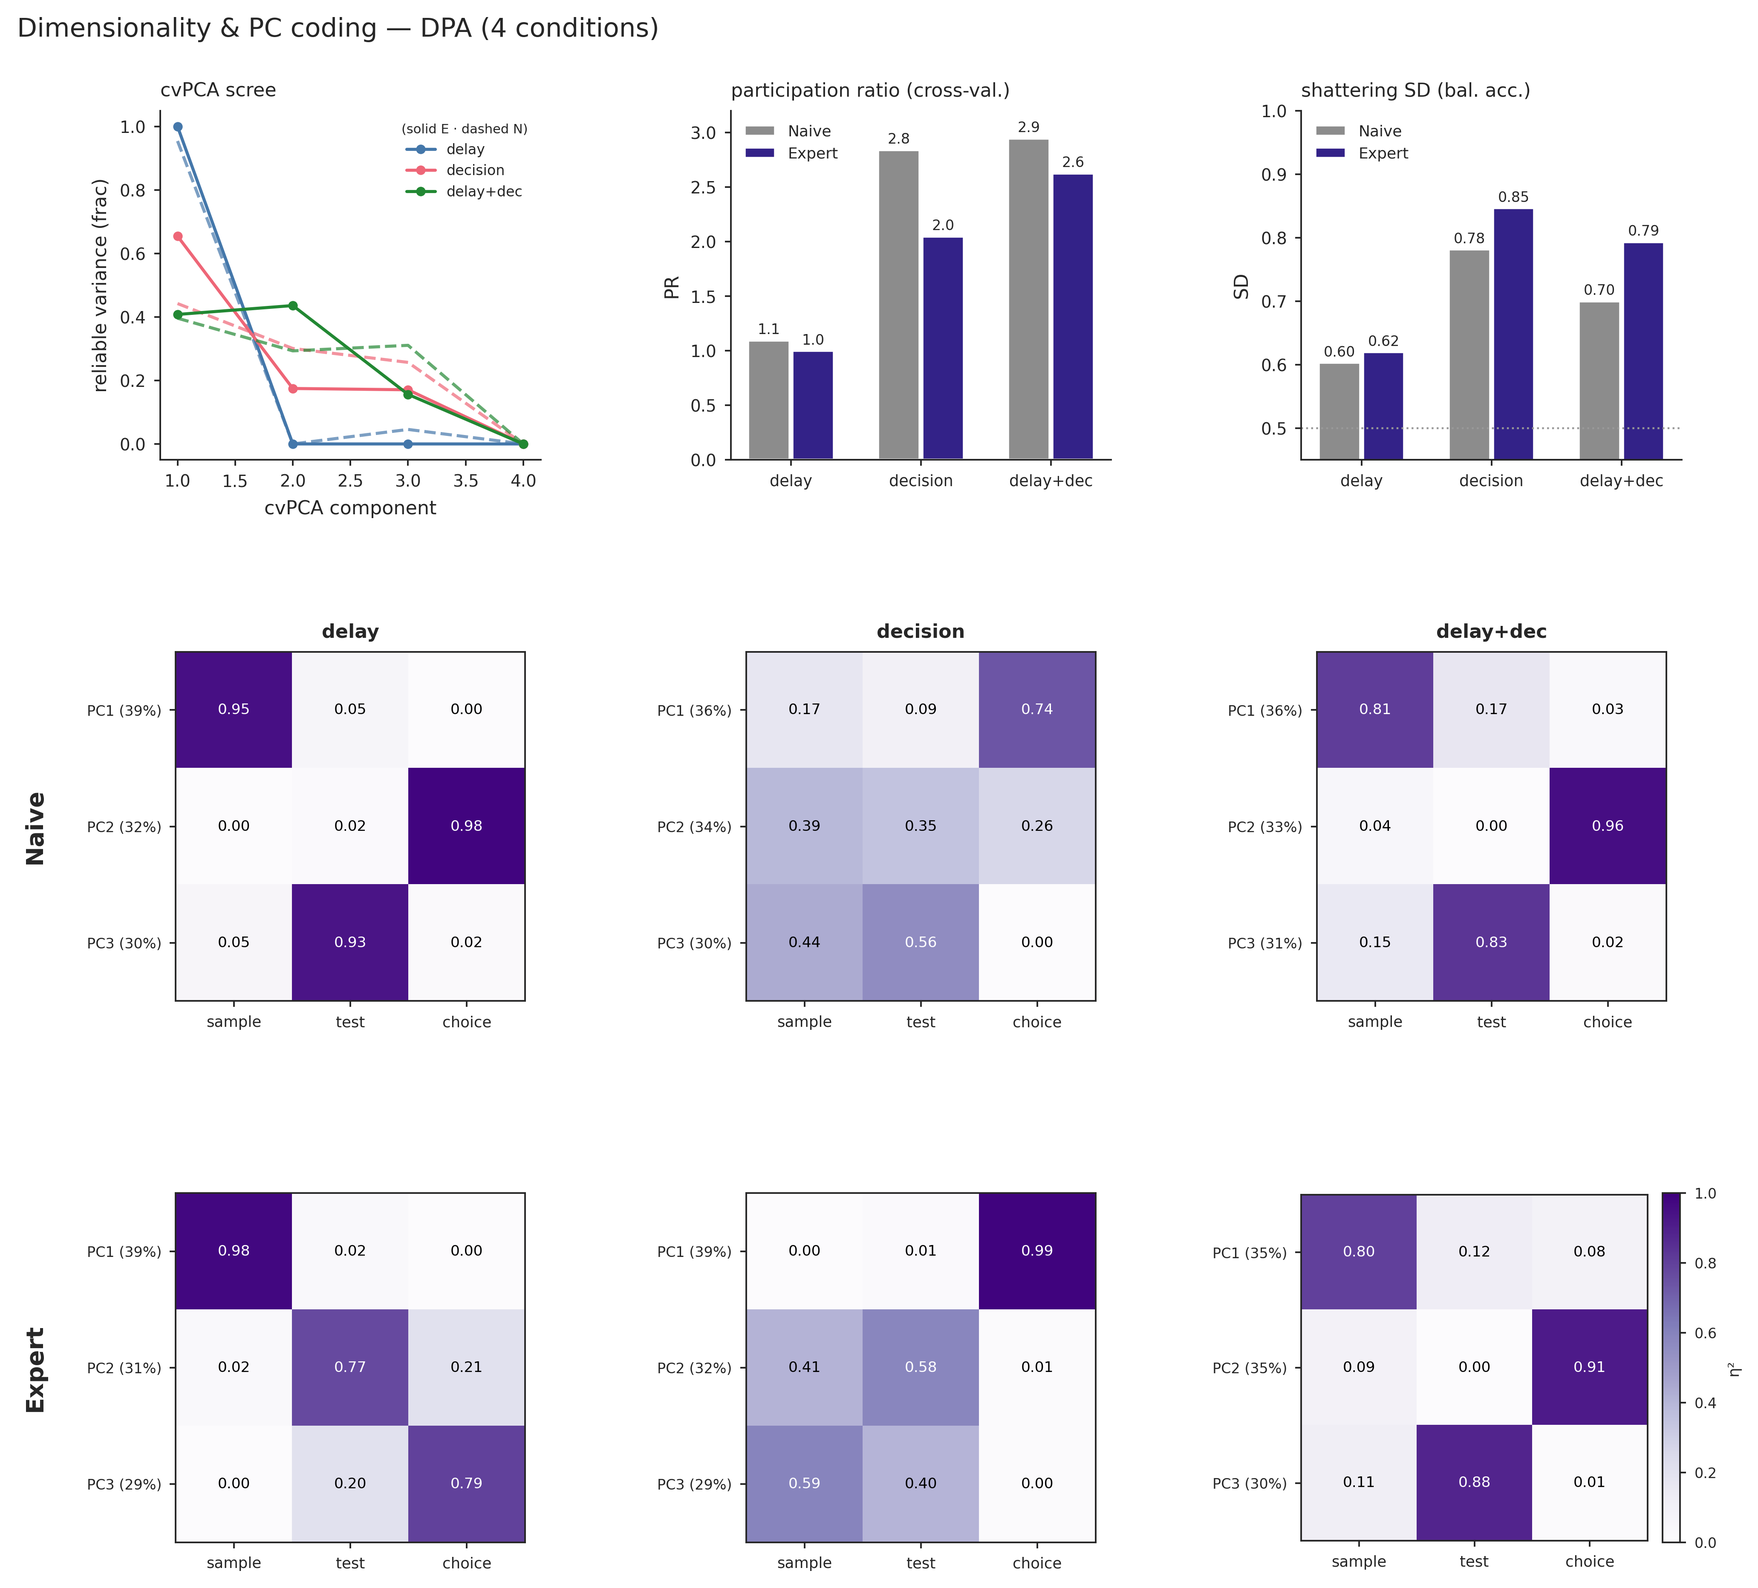
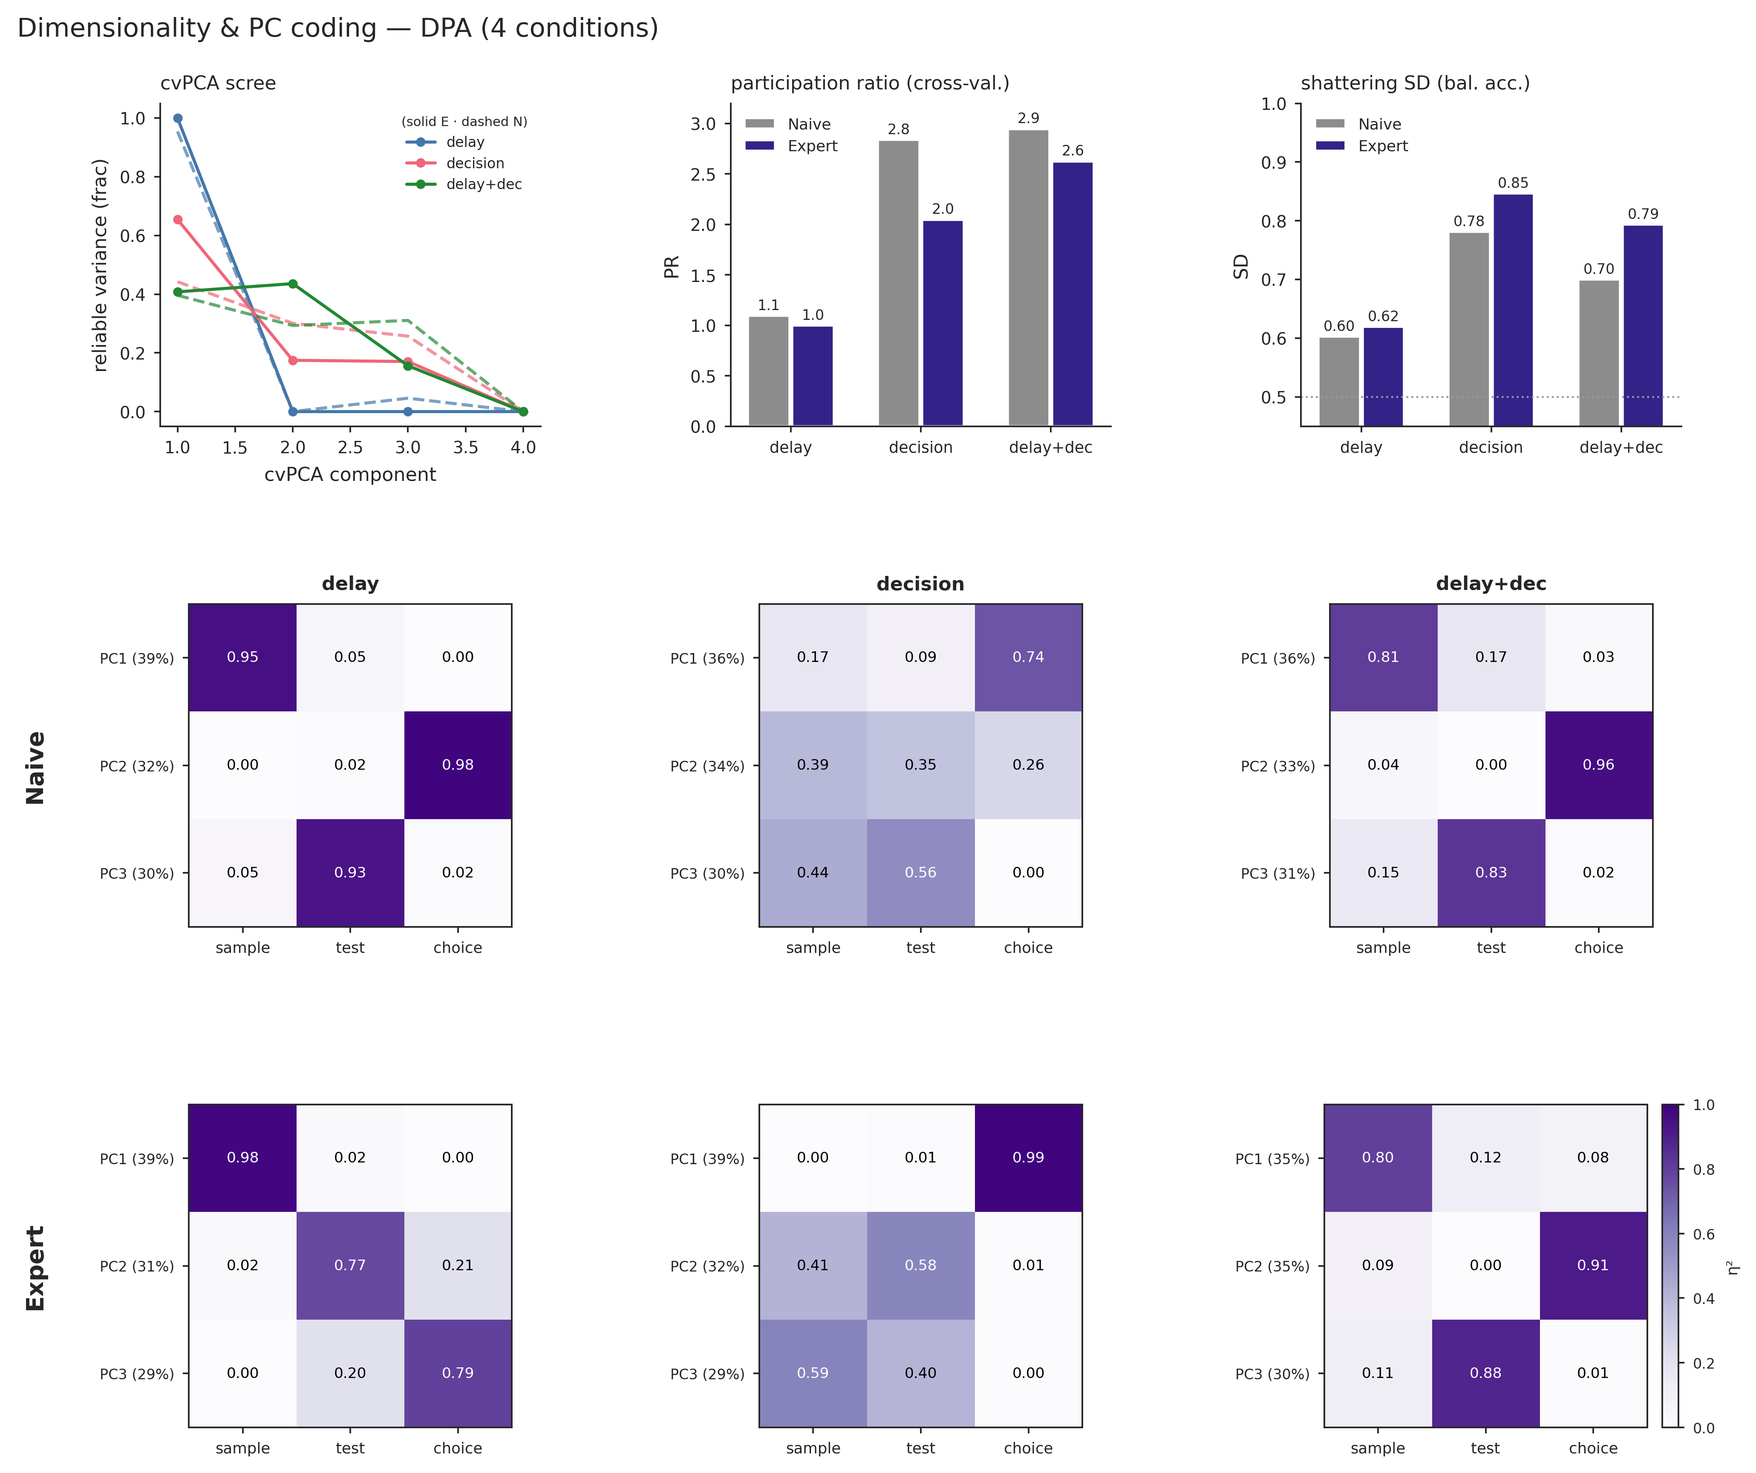
pca/dimensionality: DPA gng cross-decode column (--gng flag) + persist renders
- plot_dimensionality_fits.py: add --gng flag that appends a gng column to the
  DPA PC-coding matrices. gng doesn't exist within DPA (no distractor), so the
  column is the Go/NoGo (dual) data projected onto the DPA PC axes and DECODED
  (above-chance = 2*(bal-acc-0.5)); variance/cosine measures fail here (cos^2
  floored in 3319-D, relative-eta^2 inflated). With --gng the DPA matrix shows
  4 PCs (PC4 = degenerate null direction, ~0) so it is 4x4 square; default keeps
  the 3x3 figure. Outputs get a _gng suffix so both versions coexist.
- exp_dpa_gng_column.py: computes DPA_GNG (gng cross-decode per DPA PC) from the
  cached window matrices (no 20 GB reload); stores it in results.pkl.
- persist the two remaining render scripts (plot_dimensionality_main.py,
  plot_dimensionality_scree.py) so every committed figure is reproducible.

Finding: Go/NoGo IS partially decodable from the DPA memory subspace (full 3-PC
~0.65-0.78, concentrated on PC2), so the DPA geometry is not fully orthogonal to
the distractor code.

Claude-Session: https://claude.ai/code/session_014C5FayLYaQfdBBbGQSqtn3

diff --git a/pca/plot_dimensionality_main.py b/pca/plot_dimensionality_main.py
@@ -1,0 +1,94 @@
+"""Re-render the dimensionality figure from cached results (no recompute).
+Row 1: cvPCA spectrum · PR · shattering.  Rows 2-3: PC-coding η² matrices (Naive, Expert) — dual (4 codes) & DPA (3 codes)."""
+import os, pickle
+os.chdir('/home/leon/dual/pca')
+import numpy as np, seaborn as sns, matplotlib.pyplot as plt
+sns.set_context('notebook'); sns.set_style('ticks')
+plt.rcParams.update({'figure.dpi': 150, 'savefig.dpi': 400, 'font.family': 'sans-serif',
+    'font.sans-serif': ['Arial', 'Helvetica', 'DejaVu Sans'], 'axes.labelsize': 8, 'axes.titlesize': 8,
+    'xtick.labelsize': 7, 'ytick.labelsize': 7, 'legend.fontsize': 6.5, 'axes.spines.top': False,
+    'axes.spines.right': False, 'svg.fonttype': 'none', 'axes.linewidth': 0.7, 'lines.linewidth': 1.3,
+    'xtick.major.size': 2.5, 'ytick.major.size': 2.5, 'xtick.major.width': 0.7, 'ytick.major.width': 0.7})
+TITLE_FS = 8
+d = pickle.load(open('figures/pseudo/dimensionality/results.pkl', 'rb'))
+CV, SD, DICH, STAGES = d['CV'], d['SD'], d['DICH'], d['STAGES']
+PCETA8, PCETA_DPA = d['PCETA8'], d['PCETA_DPA']
+SC = {'Naive': '0.55', 'Expert': '#332288'}
+
+fig = plt.figure(figsize=(15.0, 8.6))
+gs = fig.add_gridspec(3, 12, height_ratios=[1.15, 1.0, 1.0], hspace=0.5, wspace=1.15,
+                      left=0.07, right=0.965, top=0.93, bottom=0.05)
+
+ax = fig.add_subplot(gs[0, 0:4])                                           # cvPCA spectrum
+allcv = np.concatenate([CV[(s, 'delay')]['cv'] for s in STAGES]); floor = max(allcv.max() * 1e-4, 1e-9)
+for stage in STAGES:
+    cv = CV[(stage, 'delay')]['cv']
+    ax.plot(np.arange(1, len(cv) + 1), np.clip(cv, floor, None), '-o', ms=3, color=SC[stage], label=stage)
+cvn = CV[('Expert', 'delay')]['cvn']
+ax.plot(np.arange(1, len(cvn) + 1), np.clip(cvn, floor, None), '--', color='0.7', lw=1.0, label='null (shuffled)')
+ax.set_yscale('log'); ax.set_xlabel('cvPCA component'); ax.set_ylabel('reliable variance (cross-validated)')
+ax.set_title('cvPCA — delay-state geometry (12 conds)', loc='left', fontsize=TITLE_FS)
+ax.legend(frameon=False, fontsize=6.5)
+
+ax = fig.add_subplot(gs[0, 4:8])                                          # PR bars
+labs = ['delay', 'decision']; xp = np.arange(len(labs))
+for j, stage in enumerate(STAGES):
+    prs = [CV[(stage, k)]['pr'] for k in labs]
+    ax.bar(xp + (j - 0.5) * 0.32, prs, 0.30, color=SC[stage], label=stage)
+    for x, v in zip(xp + (j - 0.5) * 0.32, prs):
+        ax.text(x, v + 0.05, f'{v:.1f}', ha='center', va='bottom', fontsize=6.5)
+ax.set_xticks(xp); ax.set_xticklabels(['delay\n(WM state)', 'decision\n(all 12 conds)']); ax.set_ylim(0, 4)
+ax.set_ylabel('participation ratio'); ax.set_title('reliable dimensionality (PR)', loc='left', fontsize=TITLE_FS)
+ax.legend(frameon=False, fontsize=6.5, loc='upper left')
+
+ax = fig.add_subplot(gs[0, 8:12])                                         # shattering
+for j, stage in enumerate(STAGES):
+    a = SD[stage]['acc']
+    parts = ax.violinplot(a, positions=[j], widths=0.7, showmeans=True, showextrema=False)
+    for pc in parts['bodies']:
+        pc.set_facecolor(SC[stage]); pc.set_alpha(0.5)
+    parts['cmeans'].set_color('k')
+    ax.text(j, a.mean() + 0.01, f'{a.mean():.2f}', ha='center', va='bottom', fontsize=7, fontweight='bold')
+ax.axhline(0.5, ls=':', color='0.6', lw=0.8); ax.text(1.55, 0.505, 'chance', fontsize=5.5, color='0.6', ha='right')
+ax.axhline(SD['Expert']['null'].mean(), ls='--', color='0.7', lw=0.9)
+ax.set_xticks([0, 1]); ax.set_xticklabels(STAGES); ax.set_xlim(-0.6, 1.6); ax.set_ylim(0.45, 1.02)
+ax.set_ylabel('decoding bal. acc. / dichotomy')
+ax.set_title(f'shattering dimension ({len(DICH)} dichotomies)', loc='left', fontsize=TITLE_FS)
+
+
+def pc_heatmap(ax, PC, stage, wn, title, cbar=False):                     # one η²-by-factor matrix (square cells)
+    P = PC[(stage, wn)]; FO = P['factors']; M = P['eta']; nk = len(P['var'])
+    im = ax.imshow(M, cmap='Purples', vmin=0, vmax=1, aspect='equal')
+    for i in range(nk):
+        for j in range(len(FO)):
+            ax.text(j, i, f'{M[i, j]:.2f}', ha='center', va='center', fontsize=6.4,
+                    color='w' if M[i, j] > 0.55 else 'k')
+    ax.set_xticks(range(len(FO))); ax.set_xticklabels(FO, fontsize=6.8)
+    ax.set_yticks(range(nk)); ax.set_yticklabels([f'PC{k+1} ({P["var"][k]:.0%})' for k in range(nk)], fontsize=6.2)
+    if title:
+        ax.set_title(title, loc='left', fontsize=TITLE_FS)
+    for sp in ax.spines.values():
+        sp.set_visible(True)
+    if cbar:
+        cb = fig.colorbar(im, ax=ax, fraction=0.06, pad=0.06); cb.set_label('η²', fontsize=6.5); cb.ax.tick_params(labelsize=6)
+
+
+SPECS = [(PCETA8, 'delay', 'dual tasks — delay'), (PCETA8, 'decision', 'dual tasks — decision'),
+         (PCETA_DPA, 'delay', 'DPA only — delay'), (PCETA_DPA, 'decision', 'DPA only — decision')]
+COLS = [(0, 3), (3, 6), (6, 9), (9, 12)]
+for r, stage in ((1, 'Naive'), (2, 'Expert')):
+    first = None
+    for (PC, wn, ttl), (c0, c1) in zip(SPECS, COLS):
+        ax = fig.add_subplot(gs[r, c0:c1])
+        first = first or ax
+        pc_heatmap(ax, PC, stage, wn, ttl if r == 1 else '', cbar=(c1 == 12))
+    p = first.get_position()
+    fig.text(0.018, (p.y0 + p.y1) / 2, f'{stage}\n(PC coding, η²)', rotation=90, va='center', ha='center',
+             fontsize=9, fontweight='bold')
+
+fig.suptitle('Honest dimensionality of the dual-task pseudo-population — cvPCA + shattering + PC coding (dual vs DPA)',
+             x=0.008, ha='left', y=0.965, fontsize=10)
+OUT = 'figures/pseudo/dimensionality'
+fig.savefig(f'{OUT}/png/dimensionality.png', bbox_inches='tight')
+fig.savefig(f'{OUT}/svg/dimensionality.svg', bbox_inches='tight')
+print('saved', os.path.abspath(f'{OUT}/png/dimensionality.png'))

diff --git a/pca/exp_dpa_gng_column.py b/pca/exp_dpa_gng_column.py
@@ -1,0 +1,85 @@
+"""(1) Restore the clean 3-column DPA PC-coding matrices (sample/test/choice within-fit eta^2) and
+(2) store a separate DPA_GNG entry = gng cross-DECODING above-chance per DPA PC (2*(bal-acc-0.5), clipped),
+which the render can optionally add as a 'gng' column. Idempotent, from the cache (no X)."""
+import os, pickle
+os.chdir('/home/leon/dual/pca')
+import numpy as np
+from sklearn.discriminant_analysis import LinearDiscriminantAnalysis
+from sklearn.metrics import balanced_accuracy_score
+
+C = pickle.load(open('figures/pseudo/dimensionality/fits_inputs.pkl', 'rb'))
+AW = C['AW']; VALIDIX = C['VALIDIX']; N = C['N']; L = C['L']
+MOUSE, LEARN, LAS, TSK, SAMP, TESTO, PERF = (L[k] for k in ['MOUSE', 'LEARN', 'LAS', 'TSK', 'SAMP', 'TESTO', 'PERF'])
+MICE = ['JawsM01', 'JawsM06', 'JawsM12', 'JawsM15', 'JawsM18', 'ChRM04', 'ChRM23', 'ACCM03', 'ACCM04']
+DPA = [('DPA', s, te) for s in (0, 1) for te in (0, 1)]
+DUAL = [(t, s, te) for t in ['DualGo', 'DualNoGo'] for s in (0, 1) for te in (0, 1)]
+GLAB = np.array([1 if c[0] == 'DualGo' else 0 for c in DUAL])
+_s = np.array([c[1] for c in DPA], float); _t = np.array([c[2] for c in DPA], float)
+WCON = {'sample': 2 * _s - 1, 'test': 2 * _t - 1, 'choice': 2 * (_s == _t) - 1}
+
+
+def cond_means(stage, M, conds):
+    R = np.zeros((len(conds), N))
+    for m in MICE:
+        val = VALIDIX[(m, stage)]
+        for ci, (t, s, te) in enumerate(conds):
+            idx = np.where((MOUSE == m) & (LEARN == stage) & (LAS == 0) & (PERF == 1)
+                           & (TSK == t) & (SAMP == s) & (TESTO == te))[0]
+            if len(idx):
+                R[ci][val] = np.nanmean(M[np.ix_(idx, val)], axis=0)
+    return R
+
+
+def pools(stage, conds, rng):
+    tr, te = {}, {}
+    for m in MICE:
+        for ci, (t, s, te_) in enumerate(conds):
+            idx = np.where((MOUSE == m) & (LEARN == stage) & (LAS == 0) & (PERF == 1)
+                           & (TSK == t) & (SAMP == s) & (TESTO == te_))[0]
+            p = rng.permutation(idx); h = len(p) // 2
+            tr[(ci, m)], te[(ci, m)] = p[:h], p[h:]
+    return tr, te
+
+
+def make_pseudo(pool, stage, conds, K, rng, M):
+    Xp = np.zeros((len(conds) * K, N)); crow = np.repeat(np.arange(len(conds)), K)
+    for ci in range(len(conds)):
+        for m in MICE:
+            val = VALIDIX[(m, stage)]; pi = pool[(ci, m)]
+            if len(pi):
+                Xp[ci * K:(ci + 1) * K, val] = M[np.ix_(pi[rng.randint(0, len(pi), K)], val)]
+    return Xp, crow
+
+
+def eta(contrast, zk):
+    zc = zk - zk.mean()
+    return (contrast @ zc) ** 2 / ((contrast @ contrast) * (zc ** 2).sum() + 1e-12)
+
+
+d = pickle.load(open('figures/pseudo/dimensionality/results.pkl', 'rb')); FIT = d['FITDATA']
+DPA_GNG = {}
+for wn in ['delay', 'decision', 'delay+dec']:
+    M = AW[wn]
+    for stage in ['Naive', 'Expert']:
+        R = cond_means(stage, M, DPA); mu = R.mean(0); sd = R.std(0) + 1e-9
+        Rc = (R - mu) / sd; Rc = Rc - Rc.mean(0)
+        Vt = np.linalg.svd(Rc, full_matrices=False)[2]; Z = Rc @ Vt.T; npc = 4   # incl degenerate PC4 (~0% var)
+        # (1) within-DPA eta^2 (PC4 = null direction → ~0)
+        F = FIT[('DPA', wn, stage)]
+        F['pceta'] = np.column_stack([[eta(WCON[f], Z[:, k]) for k in range(npc)] for f in ['sample', 'test', 'choice']])
+        F['factors'] = ['sample', 'test', 'choice']
+        # (2) gng cross-decode above-chance per PC
+        ac = np.zeros((npc, 8))
+        for b in range(8):
+            rng = np.random.RandomState(500 + b)
+            trp, tep = pools(stage, DUAL, rng)
+            Xtr, ctr = make_pseudo(trp, stage, DUAL, 24, rng, M); Xte, cte = make_pseudo(tep, stage, DUAL, 24, rng, M)
+            Ztr = ((Xtr - mu) / sd) @ Vt[:npc].T; Zte = ((Xte - mu) / sd) @ Vt[:npc].T
+            for k in range(npc):
+                clf = LinearDiscriminantAnalysis().fit(Ztr[:, [k]], GLAB[ctr])
+                ac[k, b] = balanced_accuracy_score(GLAB[cte], clf.predict(Zte[:, [k]]))
+        DPA_GNG[(wn, stage)] = np.clip(2 * (ac.mean(1) - 0.5), 0, 1)        # above-chance fraction per PC
+        print(f'DPA {wn:9s} {stage:6s}: gng decode bal-acc {np.round(ac.mean(1),2)} -> col {np.round(DPA_GNG[(wn,stage)],2)}')
+d['DPA_GNG'] = DPA_GNG
+pickle.dump(d, open('figures/pseudo/dimensionality/results.pkl', 'wb'))
+print('restored clean DPA matrices + stored DPA_GNG (gng cross-decode column)')

diff --git a/pca/plot_dimensionality_fits.py b/pca/plot_dimensionality_fits.py
@@ -1,7 +1,11 @@
 """Three figures (DPA, dual, all=dpa+dual), each same layout:
  row 1: scree (cvPCA, 3 windows) · PR bars · shattering-SD bars   (Naive vs Expert)
- rows 2-3: PC-coding η² matrices (Naive, Expert) × (delay, decision, delay+dec)."""
-import os, pickle
+ rows 2-3: PC-coding η² matrices (Naive, Expert) × (delay, decision, delay+dec).
+
+Flag --gng : add a 'gng' column to the DPA matrices = Go-vs-NoGo cross-DECODING above-chance per DPA PC
+(2·(bal-acc−0.5)) — gng doesn't exist within DPA, so it's the dual data projected onto the DPA axes.
+Outputs get a _gng suffix, so the default (no gng) figures are kept."""
+import os, sys, pickle
 os.chdir('/home/leon/dual/pca')
 import numpy as np, seaborn as sns, matplotlib.pyplot as plt
 sns.set_context('notebook'); sns.set_style('ticks')
@@ -13,6 +17,9 @@ plt.rcParams.update({'figure.dpi': 150, 'savefig.dpi': 400, 'font.family': 'sans
 TITLE_FS = 8
 d = pickle.load(open('figures/pseudo/dimensionality/results.pkl', 'rb'))
 FITDATA = d['FITDATA']
+WITH_GNG = '--gng' in sys.argv                                            # add gng cross-decode col to DPA
+SUF = '_gng' if WITH_GNG else ''
+DPA_GNG = d.get('DPA_GNG', {})
 SC = {'Naive': '0.55', 'Expert': '#332288'}
 WINS = ['delay', 'decision', 'delay+dec']
 WCOL = {'delay': '#4477AA', 'decision': '#EE6677', 'delay+dec': '#228833'}
@@ -20,9 +27,16 @@ TITLE = {'DPA': 'DPA (4 conditions)', 'dual': 'dual = DualGo + DualNoGo (8 condi
          'all': 'dpa + dual (all 12 conditions)'}
 
 
+NPC_SHOW = {'DPA': 3, 'dual': 4, 'all': 6}                                 # #PCs per fit (all: 6 so test shows)
+
+
 def pc_heatmap(ax, ts, wn, stage, title):
-    F = FITDATA[(ts, wn, stage)]; FO = F['factors']; cmv = F['cm_var']
-    npc = min(4, F['pceta'].shape[0]); M = F['pceta'][:npc]
+    F = FITDATA[(ts, wn, stage)]; FO = list(F['factors']); cmv = F['cm_var']
+    cap = 4 if (WITH_GNG and ts == 'DPA') else NPC_SHOW.get(ts, 4)         # DPA+gng: 4 PCs → 4×4 square
+    npc = min(cap, F['pceta'].shape[0]); M = F['pceta'][:npc]
+    if WITH_GNG and ts == 'DPA':                                          # insert gng cross-decode col after sample
+        g = np.asarray(DPA_GNG[(wn, stage)])[:npc][:, None]
+        M = np.column_stack([M[:, [0]], g, M[:, 1:]]); FO = ['sample', 'gng', 'test', 'choice']
     im = ax.imshow(M, cmap='Purples', vmin=0, vmax=1, aspect='equal')
     for i in range(npc):
         for j in range(len(FO)):
@@ -38,7 +52,7 @@ def pc_heatmap(ax, ts, wn, stage, title):
 
 
 for ts in ['DPA', 'dual', 'all']:
-    fig = plt.figure(figsize=(10.5, 10.0))
+    fig = plt.figure(figsize=(10.5, 10.0 + 0.75 * (NPC_SHOW.get(ts, 4) - 4)))
     gs = fig.add_gridspec(3, 3, height_ratios=[1.0, 1.0, 1.0], hspace=0.55, wspace=0.5,
                           left=0.09, right=0.94, top=0.9, bottom=0.06)
 
@@ -80,7 +94,8 @@ for ts in ['DPA', 'dual', 'all']:
         fig.text(0.02, (p.y0 + p.y1) / 2, stage, rotation=90, va='center', ha='center', fontsize=10, fontweight='bold')
     cb = fig.colorbar(im, ax=[fig.axes[-1]], fraction=0.05, pad=0.04); cb.set_label('η²', fontsize=6.5); cb.ax.tick_params(labelsize=6)
 
-    fig.suptitle(f'Dimensionality & PC coding — {TITLE[ts]}', x=0.01, ha='left', y=0.955, fontsize=11)
+    ttl = TITLE[ts] + ('   (+ gng cross-decode column)' if (WITH_GNG and ts == 'DPA') else '')
+    fig.suptitle(f'Dimensionality & PC coding — {ttl}', x=0.01, ha='left', y=0.955, fontsize=11)
     OUT = 'figures/pseudo/dimensionality'
-    fig.savefig(f'{OUT}/png/dim_{ts}.png', bbox_inches='tight'); fig.savefig(f'{OUT}/svg/dim_{ts}.svg', bbox_inches='tight')
-    plt.close(fig); print('saved', f'{OUT}/png/dim_{ts}.png')
+    fig.savefig(f'{OUT}/png/dim_{ts}{SUF}.png', bbox_inches='tight'); fig.savefig(f'{OUT}/svg/dim_{ts}{SUF}.svg', bbox_inches='tight')
+    plt.close(fig); print('saved', f'{OUT}/png/dim_{ts}{SUF}.png')

diff --git a/pca/plot_dimensionality_scree.py b/pca/plot_dimensionality_scree.py
@@ -1,0 +1,37 @@
+"""Per-fit scree grid: rows = task-set (dual, DPA), cols = window (delay, decision, delay+dec). Each panel =
+condition-mean scree (Naive vs Expert), with participation ratio (PR) and shattering SD annotated."""
+import os, pickle
+os.chdir('/home/leon/dual/pca')
+import numpy as np, seaborn as sns, matplotlib.pyplot as plt
+sns.set_context('notebook'); sns.set_style('ticks')
+plt.rcParams.update({'figure.dpi': 150, 'savefig.dpi': 400, 'font.family': 'sans-serif',
+    'font.sans-serif': ['Arial', 'Helvetica', 'DejaVu Sans'], 'axes.labelsize': 8, 'axes.titlesize': 8,
+    'xtick.labelsize': 7, 'ytick.labelsize': 7, 'legend.fontsize': 6.5, 'axes.spines.top': False,
+    'axes.spines.right': False, 'svg.fonttype': 'none', 'axes.linewidth': 0.7, 'lines.linewidth': 1.3,
+    'xtick.major.size': 2.5, 'ytick.major.size': 2.5, 'xtick.major.width': 0.7, 'ytick.major.width': 0.7})
+TITLE_FS = 8
+d = pickle.load(open('figures/pseudo/dimensionality/results.pkl', 'rb'))
+FITDATA = d['FITDATA']
+SC = {'Naive': '0.55', 'Expert': '#332288'}
+WINS = ['delay', 'decision', 'delay+dec']; TS = ['dual', 'DPA']
+
+fig, axes = plt.subplots(2, 3, figsize=(12.5, 6.4), gridspec_kw=dict(wspace=0.28, hspace=0.42))
+for r, ts in enumerate(TS):
+    for c, wn in enumerate(WINS):
+        ax = axes[r, c]; nc = FITDATA[(ts, wn, 'Expert')]['nconds']
+        for stage in ['Naive', 'Expert']:
+            F = FITDATA[(ts, wn, stage)]; var = F['var']
+            ax.plot(np.arange(1, len(var) + 1), var, '-o', ms=3.5, color=SC[stage],
+                    label=f'{stage}:  PR {F["pr"]:.1f} · SD {F["sd"]:.2f}')
+        ax.set_title(f'{ts} — {wn}   ({nc} conds)', loc='left', fontsize=TITLE_FS)
+        ax.set_xticks(range(1, nc))
+        ax.set_xlabel('cvPCA component' if r == 1 else ''); ax.set_ylabel('reliable variance (frac)' if c == 0 else '')
+        ax.set_ylim(0, min(1.0, ax.get_ylim()[1]))
+        ax.legend(frameon=False, fontsize=6.2, loc='upper right', handlelength=1.3, title='PR = cross-validated',
+                  title_fontsize=5.5)
+fig.suptitle('Per-fit dimensionality — cvPCA reliable-variance scree, participation ratio (PR, cross-validated) '
+             '& shattering SD (bal.acc.),  Naive vs Expert', x=0.008, ha='left', y=0.98, fontsize=9.5)
+OUT = 'figures/pseudo/dimensionality'
+fig.savefig(f'{OUT}/png/dimensionality_fits.png', bbox_inches='tight')
+fig.savefig(f'{OUT}/svg/dimensionality_fits.svg', bbox_inches='tight')
+print('saved', os.path.abspath(f'{OUT}/png/dimensionality_fits.png'))
